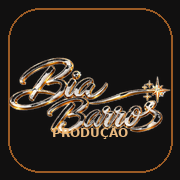
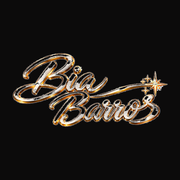
Add files via upload

diff --git a/index.html b/index.html
@@ -8,8 +8,8 @@
   <meta name="apple-mobile-web-app-capable" content="yes" />
   <meta name="apple-mobile-web-app-status-bar-style" content="black-translucent" />
   <meta name="apple-mobile-web-app-title" content="Bia Produção" />
-  <link rel="icon" type="image/png" href="./icon.png" />
-  <link rel="apple-touch-icon" href="./apple-touch-icon.png" sizes="180x180" />
+  <link rel="icon" type="image/png" href="./icon.png?v=original4k" />
+  <link rel="apple-touch-icon" href="./apple-touch-icon.png?v=original4k" sizes="180x180" />
   <link rel="manifest" href="./manifest.webmanifest" />
   <link rel="stylesheet" href="./style.css" />
   <title>Bia Barros • Produção de Estrada</title>

diff --git a/sw.js b/sw.js
@@ -1,4 +1,4 @@
-const VERSION='bia-barros-producao-sync-v7';
+const VERSION='bia-barros-producao-logo-original-v8';
 const BASE=self.registration.scope;
 const FILES=['./','./index.html','./app.js','./style.css','./logo.png','./icon.png','./icon-512.png','./icon-1024.png','./apple-touch-icon.png','./manifest.webmanifest'];
 self.addEventListener('install',ev=>ev.waitUntil(caches.open(VERSION).then(cache=>cache.addAll(FILES)).then(()=>self.skipWaiting())));
